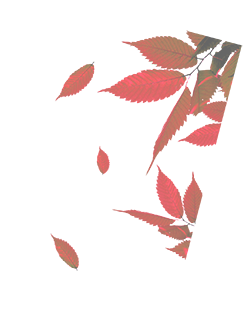
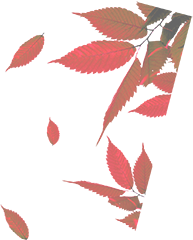
add new

diff --git a/css/index.css b/css/index.css
@@ -104,6 +104,7 @@ body {
 }
 .page_01 img {
     width:100%;
+    vertical-align:bottom;
 }
 .page_01 {
     width:100%;
@@ -123,50 +124,82 @@ body {
     }
     100% {
         left:30%;
-        top:1.86rem;
+        top:7.12%;
     }
 }
 .page_01_02 {
-    width:6.66rem;
-    height:10.98rem;
+    width:39.73%;
     position:absolute;
     left:30%;
-    top:1.86rem;
-}
-.page_01_02 img {
-    width:6.66rem;
-    height:10.98rem;
+    top:7.12%;
 }
 .page_01_03 {
-    width:7.3rem;
-    height:7.14rem;
-    -webkit-transform:translate(-2.66rem,-2.72rem);
+    width:36%;
+    position:absolute;
+    left:-15%;
+    top:-6%;
 }
-.page_01_03 img {
-    width:100%;
-}
+
 @-webkit-keyframes fenye {
     0% {
-        -webkit-transform:translate(-2.66rem,-4rem);
+       left:-20%;
+       top:-30%;
     }
     100% {
-        -webkit-transform:translate(-2.66rem,-2.72rem);
+        left:-15%;
+        top:-6%;
     }
 }
 .page_01_04{
-    width:4.86rem;
-    height:6.36rem;
+    width:25.73%;
     position:absolute;
-    right:-1.1rem;
-    top:2rem;
+    right:-12%;
+    top:5%;
 }
 @-webkit-keyframes fenye02 {
     0% {
-        right:-4rem;
-        top:1rem;
+        right:-30%;
+        top:10%;
     }
     100% {
-        right:-1.1rem;
-        top:2rem;
+        right:-12%;
+        top:5%;
+    }
+}
+.page_01_05 {
+    width:35.6%;
+    position:absolute;
+    left:38.93%;
+    top:50%;
+}
+@-webkit-keyframes tit01 {
+    0% {
+        left:-35.6%;
+        top:50%;
+        opacity:0;
+    }
+    100% {
+        left:38.93%;
+        top:50%;
+        opacity:1;
+    }
+}
+
+.page_01_06 {
+    width:43.87%;
+    position:absolute;
+    right:17.1%;
+    bottom:40%;
+}
+@-webkit-keyframes tit02 {
+    0% {
+        right:-43.87%;
+        bottom:40%;
+        opacity:0;
+    }
+    100% {
+        right:17.1%;
+        bottom:40%;
+        opacity:1;
     }
 }

diff --git a/index.html b/index.html
@@ -65,8 +65,14 @@
                         <div class="page_01_03" style="-webkit-animation:fenye 2.5s linear">
                             <img src="img/fen01.png" class="ani" swiper-animate-effect="fadeInDown" swiper-animate-duration="1.5s" swiper-animate-delay="1.5s" alt=""/>
                         </div>
-                        <div class="page_01_04" style="-webkit-animation:fenye02 2.5s ease-in">
+                        <div class="page_01_04" style="-webkit-animation:fenye02 2.5s 1 ease-in">
                             <img src="img/fen02.png" swiper-animate-effect="fadeInDown" swiper-animate-duration="1.5s" swiper-animate-delay="1.5s" alt="">
+                        </div>
+                        <div class="page_01_05" style="-webkit-animation:tit01 3s 1 linear">
+                            <img src="img/tit01.png" class="ani" swiper-animate-effect="fadeInDown" swiper-animate-duration="1.5s" swiper-animate-delay="1.5s" alt="">
+                        </div>
+                        <div class="page_01_06" style="-webkit-animation:tit02 3s 1 linear">
+                            <img src="img/tit02.png" class="ani" swiper-animate-effect="fadeInDown" swiper-animate-duration="1.5s" swiper-animate-delay="1.5s" alt="">
                         </div>
                     </div>
                 </div>
